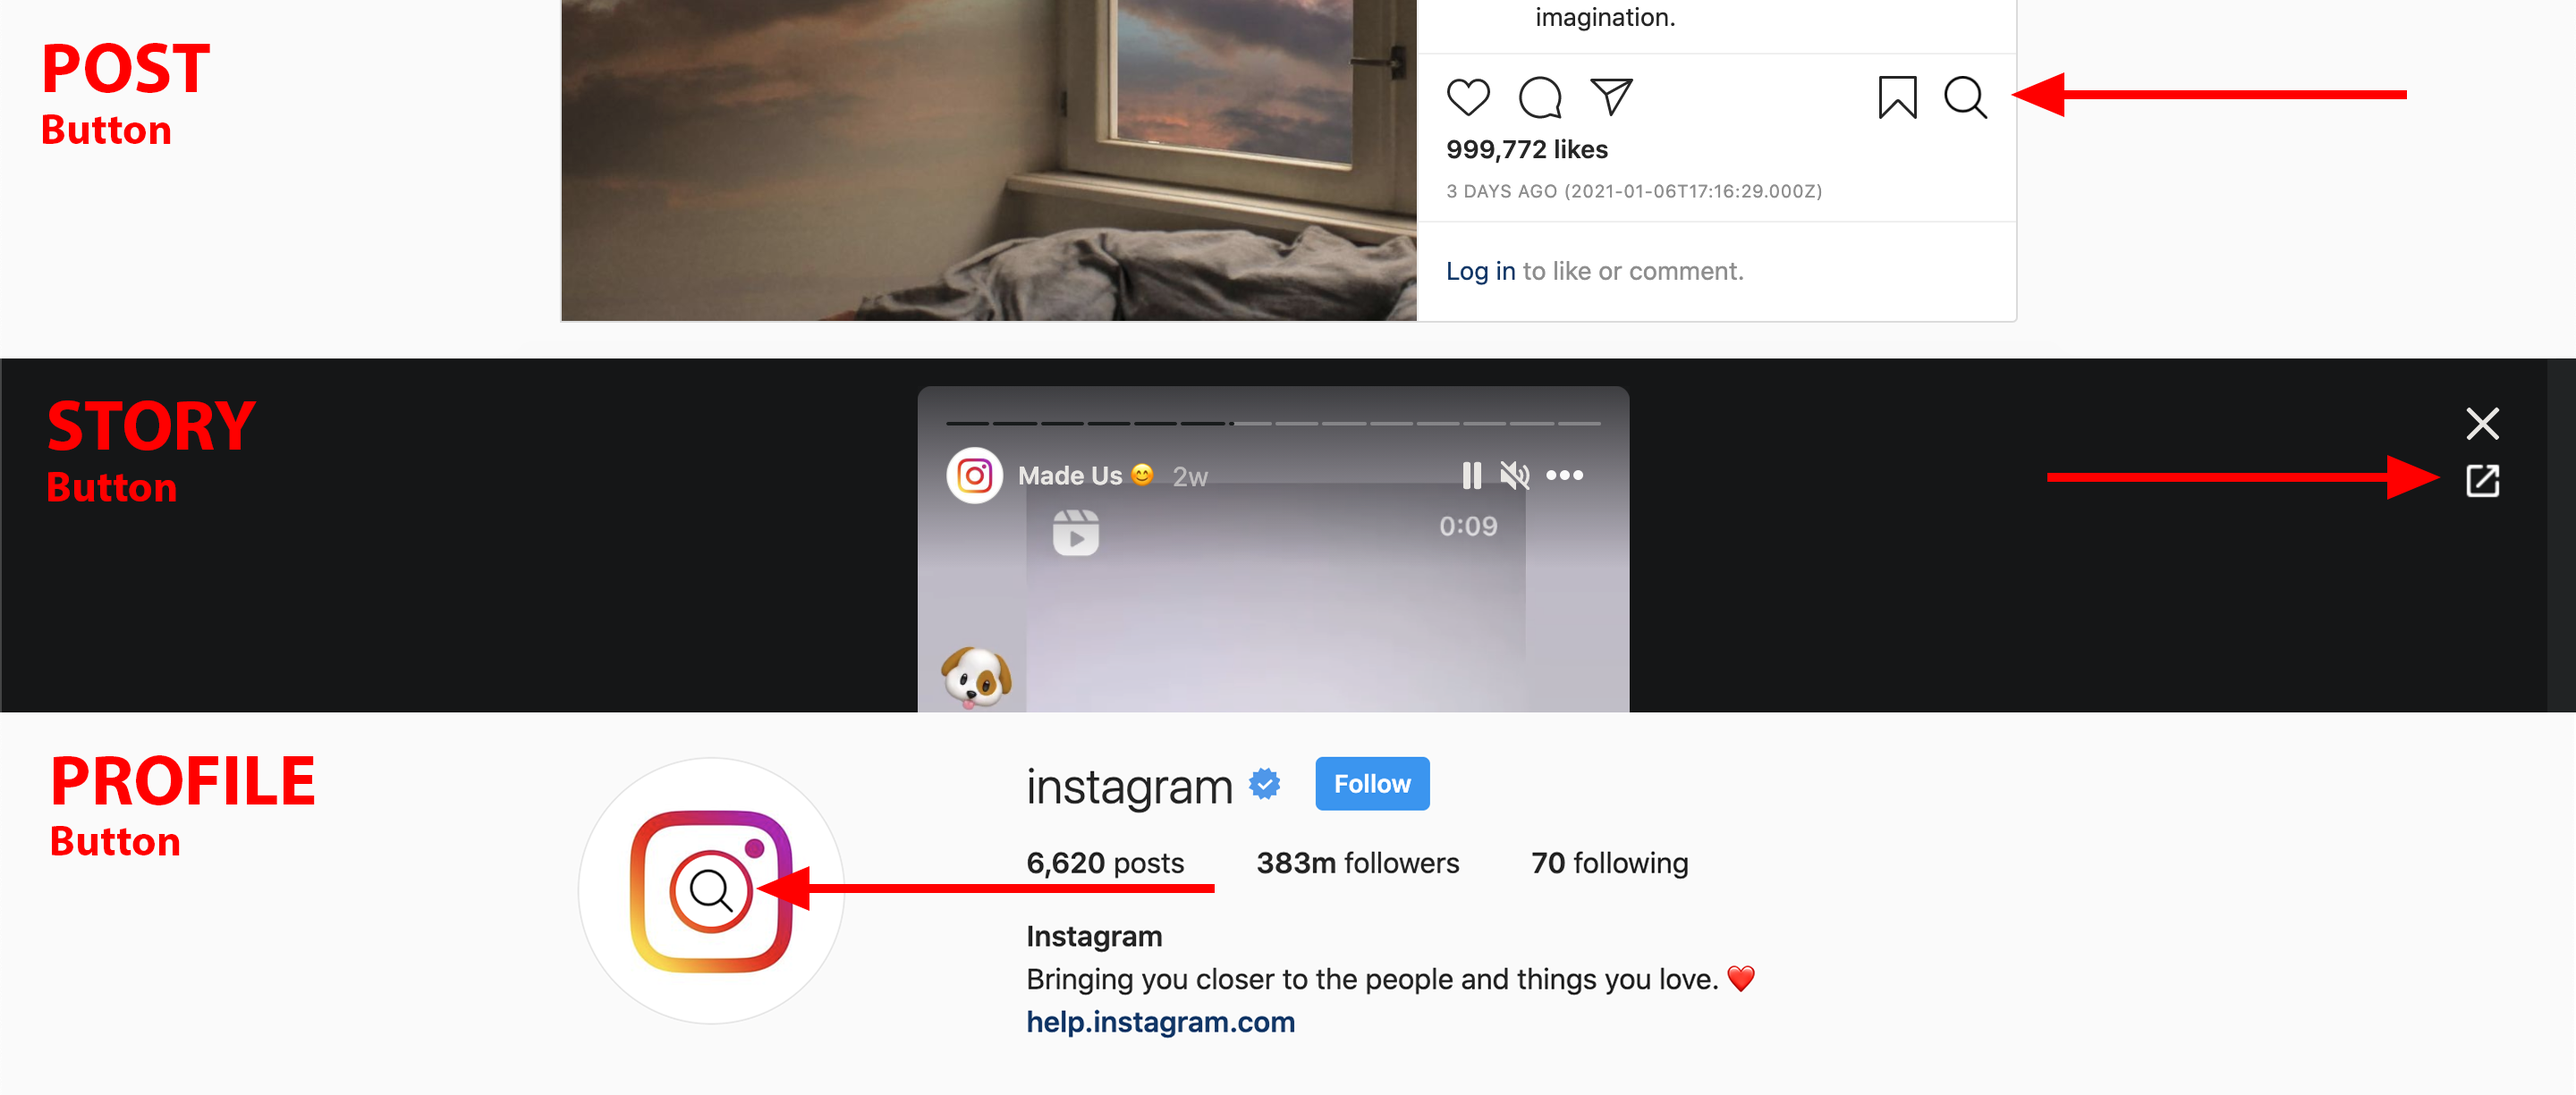
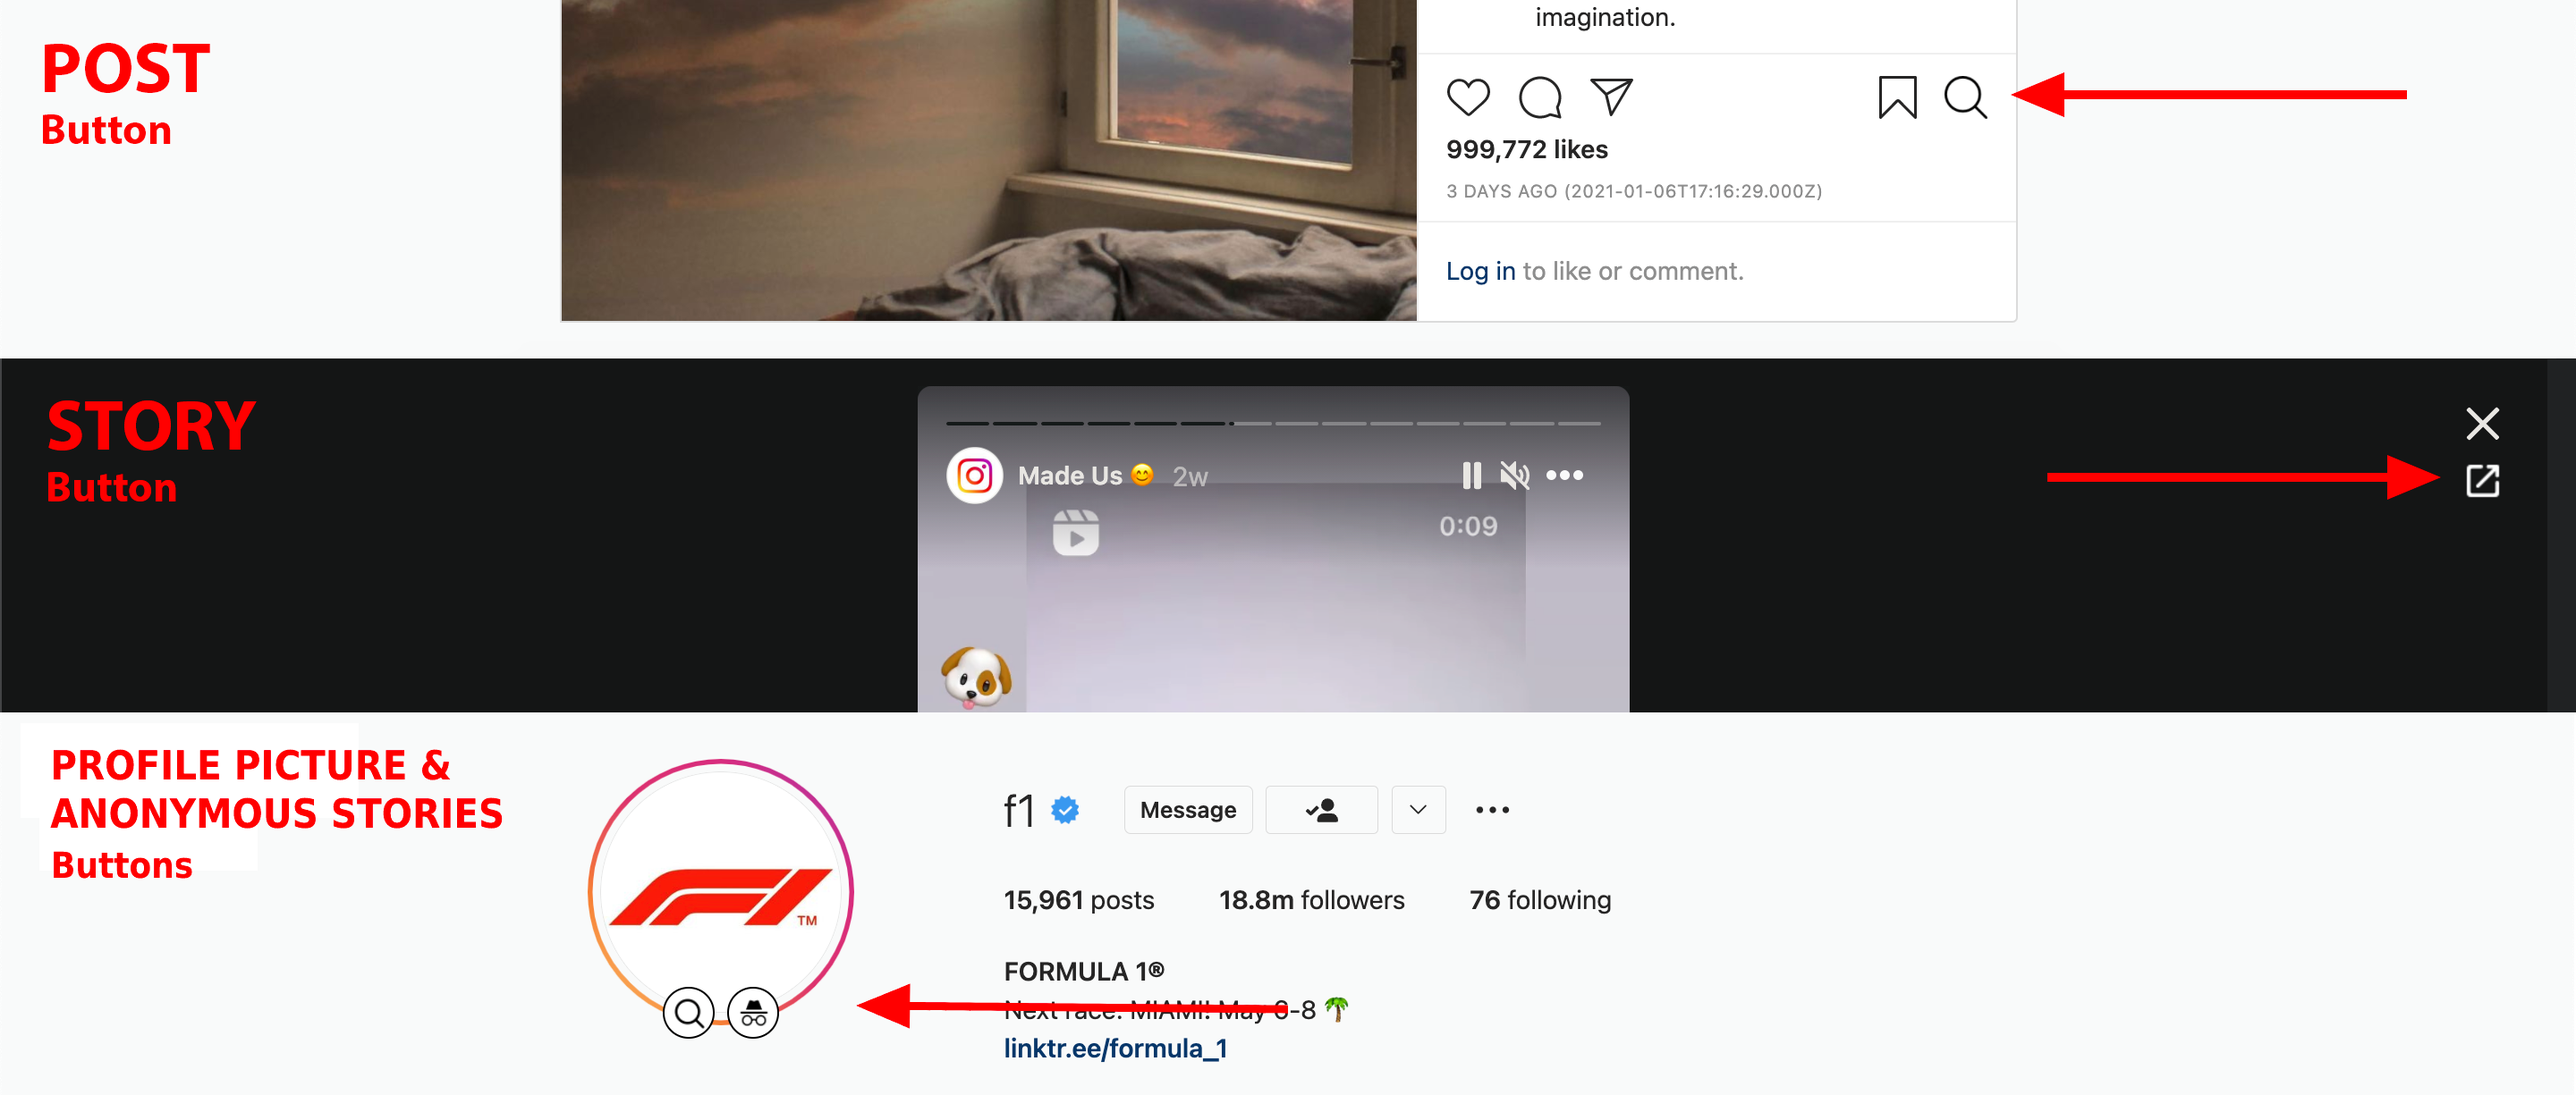
chore(docs): update README and screenshot

Changed region(s): [[0.2188, 0.6824, 0.6875, 0.9616], [0.0, 0.6824, 0.1875, 0.8065], [0.375, 0.6824, 0.5625, 0.7445]]

diff --git a/instagram-source-opener/README.md b/instagram-source-opener/README.md
@@ -2,15 +2,14 @@ Adds a button to open the original source of an IG story, post or profile pictur
 
 ### Features
 
--  Visualising the full size, original image or video of:
-   -  **Posts** - On the feed, post page or quick view (single image/video or carousel)
-   -  **Stories**
-   -  <sup>(1)</sup> **Profile pictures** - Even on private and not followed pages (requires login)
-      -  This is now achieved using the script's <u>developer options</u>, see more below on the settings section
+-  View the original source of a **Posts**, **Story**, and **Profile picture**<sup>(1)</sup>
+   - Even on private and not followed pages (requires login)
+   - <sup>(1)</sup> Profile picture viewing is now achieved using the script's <u>developer options</u>, see more below on the settings section
+-  **Anonymous stories** - Ability to view user stories without them knowing
 -  Saving a post directly from the context menu (right-click)
    -  _Note: This is just convenience and it doesn't save the full size version_
 -  Posts show the full timestamp instead of a relative and more generic time
--  Ability to customise your experience (key binding, default actions, ... see more settings below)
+-  Ability to customise your experience (key bindings, default actions, etc. See more settings below)
 
 ### Key bindings
 
